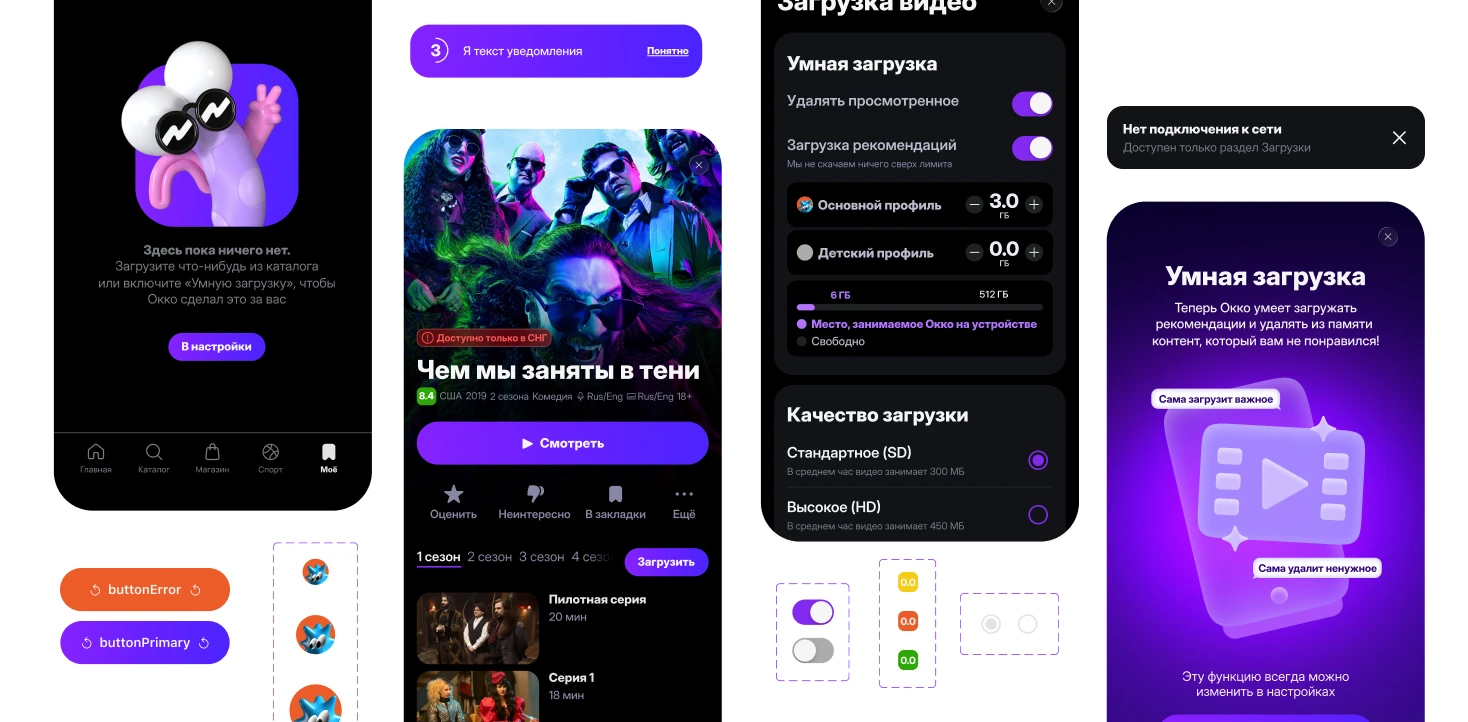
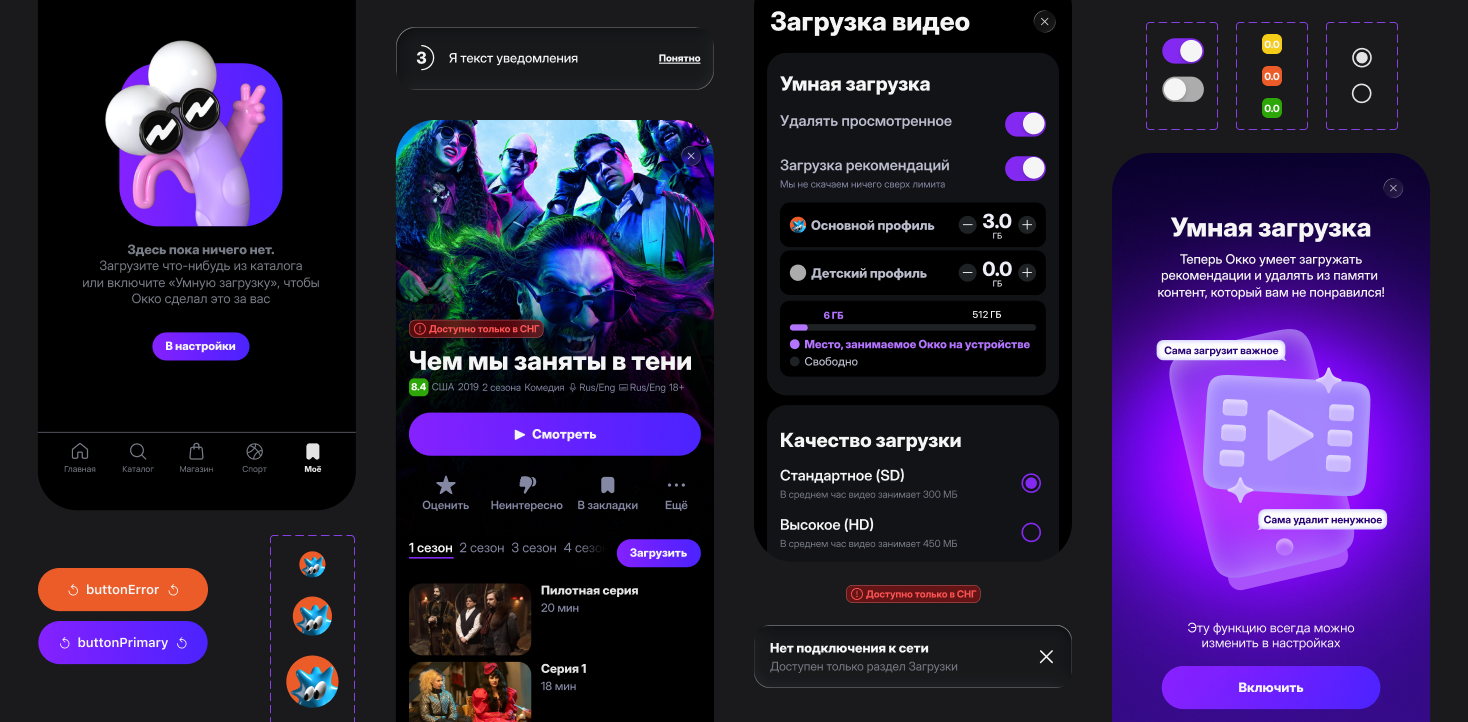
added new image to okko-case

diff --git a/cases/okko/index.html b/cases/okko/index.html
@@ -473,7 +473,7 @@
       <div class="text-block__group">
         <h3 class="text-block__subtitle">Дизайн-система</h3>
         <p class="text-block__text">
-          Новый функционал потребовал обновлений в&nbsp;дизайн-системе. Я&nbsp;создала и&nbsp;описала поведение 5&nbsp;новых компонентов, и&nbsp;они были включены в&nbsp;мой high-fidelity прототип. Затем подготовила макеты этого прототипа в&nbsp;разработку.
+          Новый функционал потребовал обновлений в&nbsp;дизайн-системе. Я&nbsp;создала и&nbsp;описала поведение нескольких новых компонентов, и&nbsp;они были включены в&nbsp;мой high-fidelity прототип. Затем подготовила макеты этого прототипа в&nbsp;разработку.
         </p>
       </div>
     </div>
@@ -482,11 +482,19 @@
 
   <section class="container">
   <div class="gallery">
+    
     <div class="gallery__grid">
-      <div class="gallery__item" style="background-color: var(--color-neutral-0); height: 400px;">
+      <div class="gallery__item">
+        <picture>
+          <source srcset="assets/images/okko/photo/components_mob.webp" media="(min-width: 768px)">
+  
+          <img src="assets/images/okko/photo/components.webp" alt="Компоненты и финальные экраны">
+       </picture>
         </div>
     </div>
-    <div class="gallery__caption">Компоненты</div>
+
+    <div class="gallery__caption">Компоненты и финальные экраны</div>
+    
   </div>
   </section>
 
